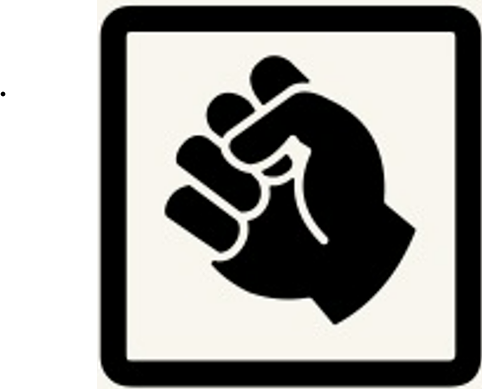
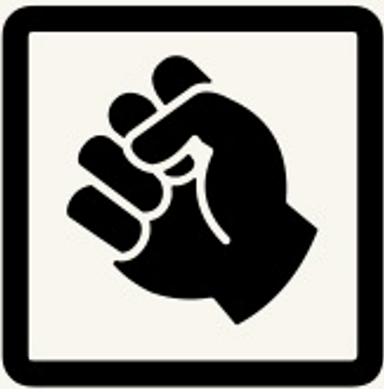
Rein / Rauszoomen (Fertig)

diff --git a/src/main/java/com/example/scheresteinpapier/HelloController.java b/src/main/java/com/example/scheresteinpapier/HelloController.java
@@ -208,12 +208,12 @@ newGame.setVisible(true);
 
     @FXML
     public void zoomStein() {
-        zoomImage(stein);
+        zoomStein(stein);
     }
 
     @FXML
     public void zoomOutStein() {
-        resetImageSize(stein);
+        resetSteinSize(stein);
     }
 
     @FXML
@@ -238,6 +238,23 @@ newGame.setVisible(true);
     private void resetImageSize(ImageView imageView) {
         double originHeight = schere.getFitHeight();
         double originWidth = schere.getFitWidth();
+        double aktuelleBreite = originWidth * 0.8333;
+        double aktuelleHoehe = originHeight * 0.8333;
+        imageView.setFitWidth(aktuelleBreite);
+        imageView.setFitHeight(aktuelleHoehe);
+    }
+    private void zoomStein(ImageView imageView) {
+        double originHeight = stein.getFitHeight();
+        double originWidth = stein.getFitWidth();
+        double aktuelleBreite = originWidth * 1.2;
+        double aktuelleHoehe = originHeight * 1.2;
+        imageView.setFitWidth(aktuelleBreite);
+        imageView.setFitHeight(aktuelleHoehe);
+    }
+
+    private void resetSteinSize(ImageView imageView) {
+        double originHeight = stein.getFitHeight();
+        double originWidth = stein.getFitWidth();
         double aktuelleBreite = originWidth * 0.8333;
         double aktuelleHoehe = originHeight * 0.8333;
         imageView.setFitWidth(aktuelleBreite);
